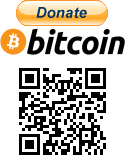
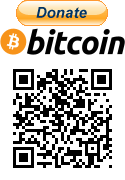
Real bitcoin address

diff --git a/bitcoin-address.html b/bitcoin-address.html
@@ -6,8 +6,8 @@
   </head>
   <body>
   <!--
-  <a href="bitcoin:AbCdEfGhIjKlMnOpQrStUvWxYz?label=Donation%20Test&amp;amount=0.00001">AbCdEfGhIjKlMnOpQrStUvWxYz</a>
+  <a href="bitcoin:36j8C43FSftiQVjAdxzZH1GF4NAMF39k3M?label=Donation%20Test&amp;amount=0.00001">36j8C43FSftiQVjAdxzZH1GF4NAMF39k3M</a>
   -->
-  <a href="bitcoin:AbCdEfGhIjKlMnOpQrStUvWxYz">AbCdEfGhIjKlMnOpQrStUvWxYz</a>
+  <a href="bitcoin:36j8C43FSftiQVjAdxzZH1GF4NAMF39k3M">36j8C43FSftiQVjAdxzZH1GF4NAMF39k3M</a>
   </body>
 </html>
